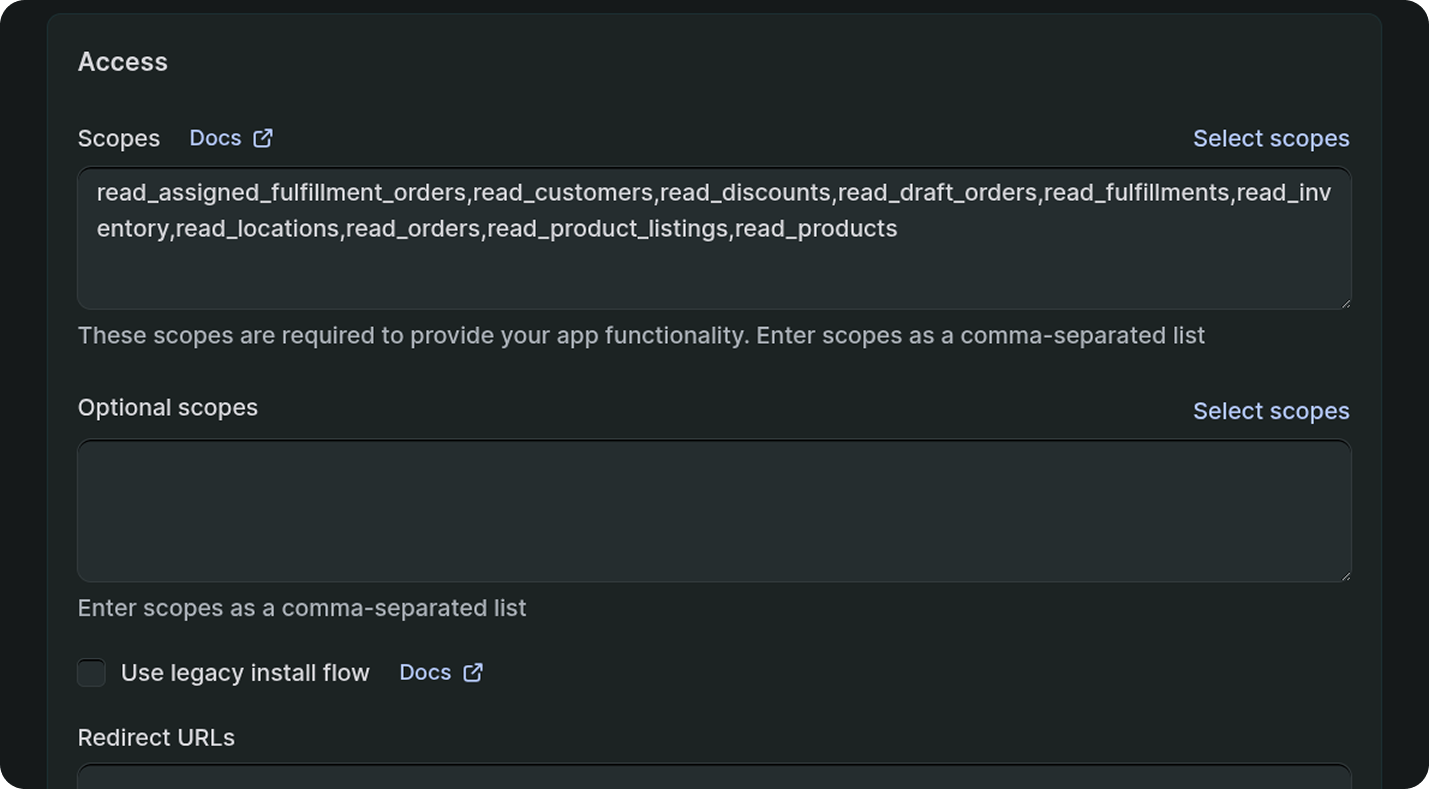
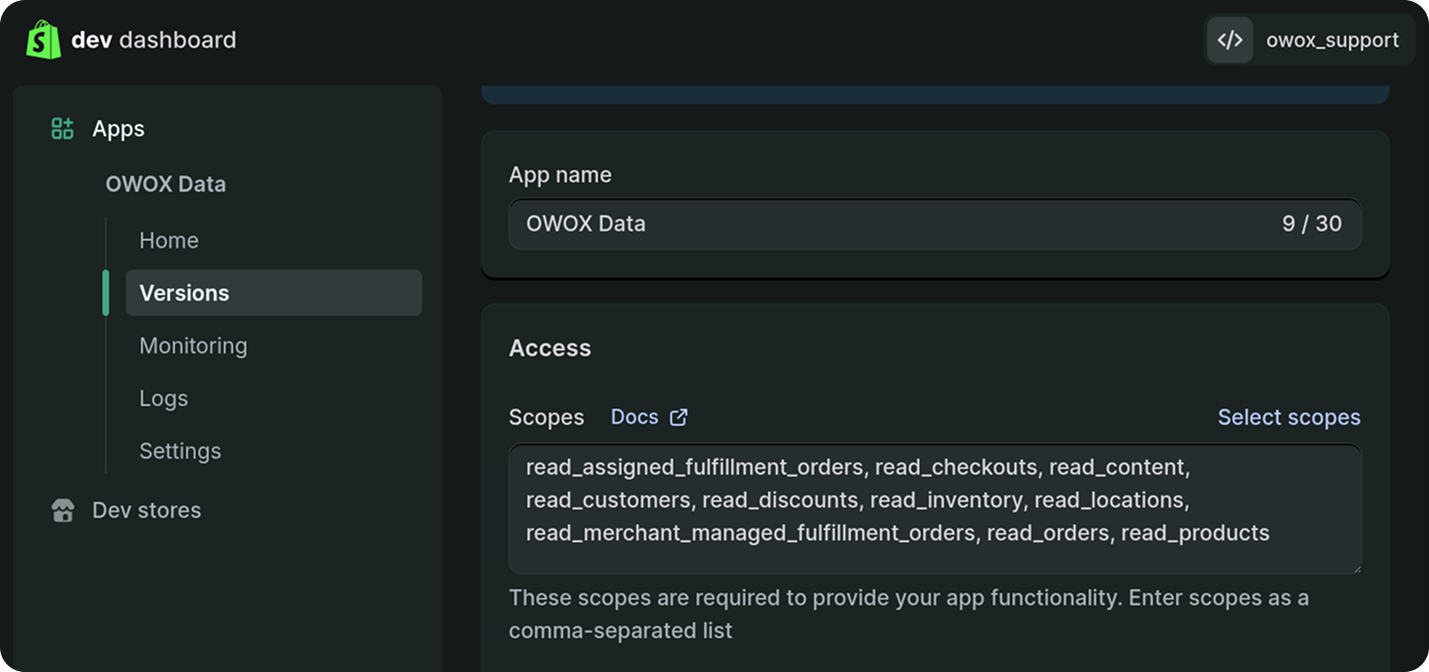
feat(shopify): add Shopify source documentation and images for data import process

diff --git a/packages/connectors/src/Sources/ShopifyAds/GETTING_STARTED.md b/packages/connectors/src/Sources/ShopifyAds/GETTING_STARTED.md
@@ -1,0 +1,82 @@
+# How to Import Data from the Shopify Source
+
+Before proceeding, please make sure that:
+
+- You have already created an **Admin API Access Token**, as described in [CREDENTIALS](CREDENTIALS.md).  
+- You [have run **OWOX Data Marts**](https://docs.owox.com/docs/getting-started/quick-start/) and created at least one storage in the **Storages** section.  
+
+![Dialog for creating new storage in OWOX Data Marts. The left sidebar highlights the Storages section. A modal window titled New Storage displays options to choose the type of storage to create: Google BigQuery, AWS Athena, Snowflake, and AWS Redshift. The wider environment is a dark-themed application interface with navigation and action buttons. The emotional tone is neutral and instructional.](res/shopify_storage.png)
+
+## Create the Data Mart
+
+- Click **New Data Mart**.
+- Enter a title and select the Storage.
+- Click **Create Data Mart**.
+
+![Button labeled New Data Mart is highlighted in the left sidebar of the OWOX Data Marts application. On the right, a modal titled Create Data Mart displays fields for Title and Storage, with the text My Awesome Data Mart entered in the Title field. A blue button labeled Create Data Mart is shown below these fields. The interface uses a dark theme with clear navigation and action buttons. The emotional tone is neutral and instructional.](res/shopify_newdatamart.png)
+
+## Set Up the Connector
+
+1. Select **Connector** as the input source type.
+2. Сhoose Shopify.
+3. Fill in the required fields:
+    - **Admin API Access Token** – paste the token you generated during the [CREDENTIALS](CREDENTIALS.md) step.
+    - **Shop Domain** – you can find it in **[Shopify Admin page](https://admin.shopify.com)**. For example, `owox-support.myshopify.com`.
+    - Leave the other fields as default and proceed to the next step.
+
+![Shopify Data Mart Data Setup screen showing the Input Source section. A dropdown menu is open with options for definition type: SQL, Table, View, Pattern, and Connector. Connector is highlighted, indicating selection for data import from source to storage. The emotional tone is neutral and instructional.](res/shopify_inputsource.png)
+
+![Shopify Admin dashboard showing the store domain owox-support.myshopify.com circled in red. The left sidebar displays navigation options. The main panel shows the domain details. The interface uses a light theme with clear navigation and search bar at the top. The emotional tone is neutral and instructional.](res/shopify_shopdomain.png)
+
+![Shopify Data Mart setup connector modal showing configuration fields for connecting to a Shopify store. The modal header reads Set Up Connector and provides step-by-step instructions. The Shopify logo is displayed. Two required fields are shown: Shop Domain with the value owox-support.myshopify.com and Admin API Access Token with masked characters. A Next button is highlighted in blue at the bottom right, and a Back button is at the bottom left. The wider environment is a dark-themed application interface with navigation tabs for Overview, Data Setup, and Destinations. The emotional tone is neutral and instructional.](res/shopify_setupconnector.png)
+
+## Configure Data Import
+
+1. Choose one of the available endpoints.
+2. Select the required **fields**.
+3. Specify the **dataset** where the data will be stored, or leave it as default.
+4. Click **Finish**, then **Publish Data Mart**.
+
+![Button labeled Publish Data Mart is highlighted in blue at the top right of the Shopify Data Mart Data Setup screen. A red arrow points to the button, indicating the action to publish the data mart. The wider environment is a dark-themed application interface. The emotional tone is neutral and instructional.](res/shopify_publishdatamart.png)
+
+## Run the Data Mart
+
+Now you have **two options** for importing data from Shopify:
+
+Option 1: Import Current Day's Data
+
+Choose **Manual run → Incremental load** to load data for the **current day**.
+
+![Shopify Data Mart manual run menu is open, showing two options: Manual Run and Delete Data Mart. Manual Run is highlighted, indicating the action to import new data. The wider environment is a dark-themed application interface with navigation tabs. The status indicator shows Published in green. The emotional tone is neutral and instructional.](res/shopify_incremental.png)
+
+![Manual Run dialog in Shopify Data Mart showing Incremental load selected as the run type. The description reads: Adds only new or updated records since the last run, using the current state of your Data Mart as a reference. Ideal for keeping data fresh without reloading what is already there. A blue Run button is highlighted at the bottom of the modal. The wider environment is a dark-themed application interface with navigation tabs for Overview, Data Setup, and Destinations. The emotional tone is neutral and instructional.](res/shopify_currentday.png)
+
+> ℹ If you click **Incremental load** again after a successful initial load,  
+> the connector will import: **Current day's data**, plus **Additional days**, based on the value in the **Reimport Lookback Window** field.
+
+![Shopify Data Mart connector configuration screen showing advanced settings for data import. The Reimport Lookback Window field is highlighted and set to 2. The left panel displays the Input Source section with Shopify selected and Edit config circled. The interface uses a dark theme with clear navigation and action buttons. The emotional tone is neutral and instructional.](res/shopify_reimportwindow.png)
+
+Option 2: Manual Backfill for Specific Date Range
+
+Choose **Backfill (custom period)** to load historical data for a custom time range.
+
+1. Select the **Start Date** and **End Date**  
+2. Click the **Run** button
+
+![Manual Run dialog in Shopify Data Mart showing Backfill custom period selected as the run type. The dialog displays fields for Start Date and End Date, both empty, with a calendar icon next to each. Red circles and arrows highlight the Backfill custom period option and the Start Date field. The wider environment is a dark-themed application interface with navigation tabs. The emotional tone is neutral and instructional.](res/shopify_daterange.png)
+
+The process is complete when the **Run history** tab shows the message:  
+**"Success"**  
+
+![Shopify Data Mart Run History screen showing a successful manual connector run. The main panel displays a timestamp 2025-12-22 18:30:05, the connector type Shopify, and the user who ran it. A green Success status indicator is present. The navigation tabs at the top include Overview, Data Setup, Destinations, Triggers, and Run History, with Run History selected. The wider environment uses a dark theme with clear navigation and status indicators. The emotional tone is neutral and instructional. On-screen text includes: Shopify Data Mart, Run History, Manual connector run by, Success, Published.](res/shopify_successrun.png)
+
+## Access Your Data
+
+The data will be written to the dataset specified earlier.
+
+If you encounter any issues:
+
+1. Check the Run history for specific error messages
+2. Please [visit Q&A](https://github.com/OWOX/owox-data-marts/discussions/categories/q-a) first
+3. If you want to report a bug, please [open an issue](https://github.com/OWOX/owox-data-marts/issues)
+4. Join the [discussion forum](https://github.com/OWOX/owox-data-marts/discussions) to ask questions or propose improvements

diff --git a/packages/connectors/src/Sources/ShopifyAds/CREDENTIALS.md b/packages/connectors/src/Sources/ShopifyAds/CREDENTIALS.md
@@ -3,8 +3,8 @@
 This guide explains how to create a Shopify app and obtain the credentials required to request an Admin API Access Token.
 
 > **Prerequisites:**  
-> You must have a Shopify store and know its address, e.g.  
-> `https://yourstore.myshopify.com/`
+> You must have a Shopify store and know its address, for example  
+> <https://yourstore.myshopify.com/>
 
 ## 1. Open the Shopify Dev Dashboard
 
@@ -12,7 +12,7 @@ Open the Dev Dashboard: <https://dev.shopify.com/>
 
 In the left sidebar, select **Apps**, then click **Create app**.
 
-![Shopify developer dashboard with Apps section highlighted in the left sidebar. The main area welcomes user Victoria with the text Welcome back Victoria and displays a button labeled Create store. Below, a store named owox_support with the address owox-support.myshopify.com is listed. The environment has a calm, professional tone with a blue and purple gradient background.](res/shopify_createapp.png)
+![Shopify developer dashboard with the Apps section highlighted in the left sidebar. The main area welcomes the user Victoria with the text Welcome back Victoria and displays a button labeled Create store. Below, a store named owox_support with the address owox-support.myshopify.com is listed. The environment has a calm, professional tone with a blue and purple gradient background.](res/shopify_createapp.png)
 
 ## 2. Create an App Version and Select Scopes
 
@@ -23,18 +23,18 @@ Paste the following scopes into the field:
 
 ``` text
 read_assigned_fulfillment_orders,
+read_checkouts,
+read_content,
 read_customers,
 read_discounts,
-read_draft_orders,
-read_fulfillments,
 read_inventory,
 read_locations,
+read_merchant_managed_fulfillment_orders,
 read_orders,
-read_product_listings,
 read_products
 ```
 
-![Shopify developer dashboard showing Access section for an app version. The main content area displays a text box filled with required scopes and an empty field for optional scopes. Checkbox labeled Use legacy install flow is visible. Interface uses a dark theme with a calm, professional tone. Text in the required scopes field: read_assigned_fulfillment_orders, read_customers, read_discounts, read_draft_orders, read_fulfillments, read_inventory, read_locations, read_orders, read_product_listings, read_products.](res/shopify_scopeslist.png)
+![Shopify developer dashboard showing Access section for an app version. The main content area displays a text box filled with required scopes and an empty field for optional scopes. Checkbox labeled Use legacy install flow is visible. Interface uses a dark theme with a calm, professional tone.](res/shopify_scopeslist.png)
 
 If you need additional scopes, click **Select scopes** and choose them.
 
@@ -79,4 +79,48 @@ You will see:
 
 Save both — they will be required to generate the Admin API Access Token.
 
-![Alt text: Shopify developer dashboard displaying the OWOX Data app settings page. The left sidebar lists navigation options. The main section shows Credentials with a Client ID value and a masked Secret. There are buttons to copy, view, or rotate the secret. The interface has a dark theme and a calm, professional tone.](res/shopify_credentials.png)
+![Shopify developer dashboard displaying the OWOX Data app settings page. The left sidebar lists navigation options. The main section shows Credentials with a Client ID value and a masked Secret. There are buttons to copy, view, or rotate the secret. The interface has a dark theme and a calm, professional tone.](res/shopify_credentials.png)
+
+## 6. Get the Admin API Access Token
+
+To get the Admin API Access Token, you need to make a request to the Shopify Admin API. The request should include the Client ID and Secret in the Authorization header. Use the template below and replace `your_client_id` and `your_secret` with your actual Client ID and Secret.
+
+| Value | Where to find | Step |
+| :--- | :--- | :--- |
+| your_client_id | Dev Dashboard under Settings | [5](#5-retrieve-your-app-credentials) |
+| your_secret | Dev Dashboard under Settings | [5](#5-retrieve-your-app-credentials) |
+| yourstore.myshopify.com | Admin panel of your store | Prerequisites |
+
+Go to [ReqBin](https://reqbin.com/) or use **Postman**.  
+Send a `POST` request to:
+
+``` code
+https://yourstore.myshopify.com/admin/oauth/access_token
+```
+
+With the following headers:
+
+``` text
+Content-Type: application/x-www-form-urlencoded
+```
+
+And the following body:
+
+``` code
+client_id=your_client_id&
+secret=your_secret&
+grant_type=client_credentials&
+scope=read_assigned_fulfillment_orders,read_checkouts,read_content,read_customers,read_discounts,read_inventory,read_locations,read_merchant_managed_fulfillment_orders,read_orders,read_products
+```
+
+The response will include the Access Token, which you will need to make requests to the Shopify Admin API.
+
+![ReqBin interface for sending a POST request to obtain a Shopify Admin API access token. The URL field contains https://owox-support.myshopify.com/admin/oauth/access_token. The Body tab is selected with Form (url-encoded) chosen. The request body includes client_id, client_secret, grant_type, and scope parameters, each separated by an ampersand. Red handwritten annotations instruct the user to paste the URL of their store, ensure ampersands follow every parameter, and paste their own Client ID and Secret. The wider environment is a typical API testing tool interface with a neutral, instructional tone. Text in the image: Please, paste URL of your store. Please ensure that ampersands comes after every parameter. Paste your own Client ID and Secret.](res/shopify_request.png)
+
+Click the **Send** button.
+
+You should receive a response containing your **Admin API Access Token**. For example, `shpat_1234567890...`. Save it for later use.
+
+![ReqBin response panel showing a successful JSON response with an access_token field containing the token value shpat_... and scope field listing the granted permissions. The HTTP status is 200 OK. The interface has a clean, developer-focused look.](res/shopify_fulltoken.png)
+
+Next step: please follow [GETTING_STARTED](GETTING_STARTED.md) instructions to create the Data Mart.

diff --git a/README.md b/README.md
@@ -107,19 +107,20 @@ For more details on the types of deployment in your infrastructure, check out ou
 | Open Exchange Rates             | 🟢 Public        | [Get started](packages/connectors/src/Sources/OpenExchangeRates/GETTING_STARTED.md) |
 | Open Holidays                   | 🟢 Public        | [Get started](packages/connectors/src/Sources/OpenHolidays/GETTING_STARTED.md)      |
 | Reddit Ads                      | 🟢 Public        | [Get started](packages/connectors/src/Sources/RedditAds/GETTING_STARTED.md)         |
+| Shopify                         | 🟢 Public        | [Get started](packages/connectors/src/Sources/Shopify/GETTING_STARTED.md)           |
 | TikTok Ads                      | 🟢 Public        | [Get started](packages/connectors/src/Sources/TikTokAds/GETTING_STARTED.md)         |
 | X Ads (former Twitter Ads)      | 🟢 Public        | [Get started](packages/connectors/src/Sources/XAds/GETTING_STARTED.md)              |
+| Shopify Ads                     | ⚪ In Development|                                                                                     |
 | Hotline                         | ⚪ In Discussion | [Discussion](https://github.com/OWOX/owox-data-marts/discussions/55)                |
-| Shopify Ads                     | ⚪ In Discussion | [Discussion](https://github.com/OWOX/owox-data-marts/discussions/63)                |
 | Google Business Profile         | ⚪ In Discussion | [Discussion](https://github.com/OWOX/owox-data-marts/discussions/61)                |
 
 ### Data Storages
 
 | Name            | Status    | Links                                                               |
 | --------------- | --------- | ------------------------------------------------------------------- |
-| Google BigQuery | 🟢 Public | [Readme](docs/storages/supported-storages/google-bigquery.md) |
-| AWS Athena      | 🟢 Public | [Readme](docs/storages/supported-storages/aws-athena.md)      |
-| Snowflake      | 🟢 Public | [Readme](docs/storages/supported-storages/snowflake.md)      |
+| Google BigQuery | 🟢 Public | [Readme](docs/storages/supported-storages/google-bigquery.md)       |
+| AWS Athena      | 🟢 Public | [Readme](docs/storages/supported-storages/aws-athena.md)            |
+| Snowflake       | 🟢 Public | [Readme](docs/storages/supported-storages/snowflake.md)             |
 
 If you find an integration missing, you can share your use case and request it in the [discussions](https://github.com/OWOX/owox-data-marts/discussions)
 
